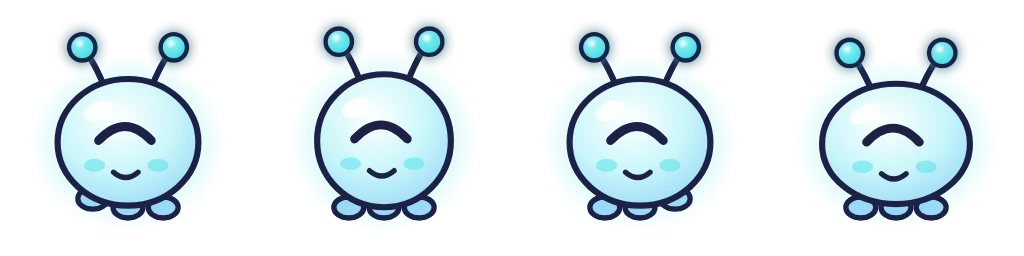
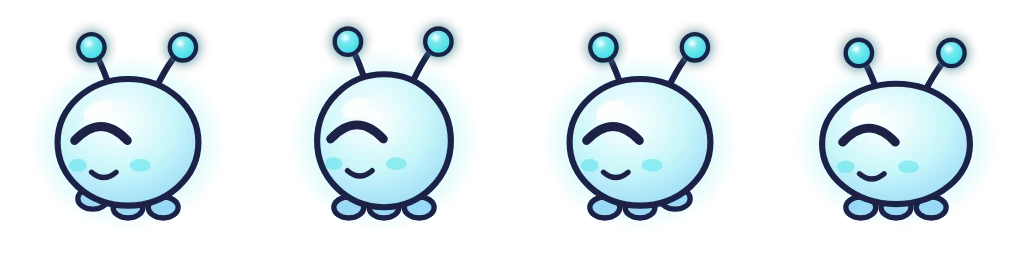
Nebula: critters look where they walk (3/4-turned face on the walk + happy sheets, mirrored by the engine); visual-review: facing check
Claude-Session: https://claude.ai/code/session_011bftBeXudnSzAMBxDFXhpR

diff --git a/index.html b/index.html
@@ -11,12 +11,12 @@
   <meta name="apple-mobile-web-app-status-bar-style" content="black-translucent" />
   <meta name="apple-mobile-web-app-title" content="Nebula" />
   <title>Nebula Nursery</title>
-  <link rel="manifest" href="manifest.webmanifest?v=v47" />
-  <link rel="icon" type="image/png" href="assets/favicon.png?v=v47" />
-  <link rel="apple-touch-icon" href="assets/apple-touch-icon.png?v=v47" />
+  <link rel="manifest" href="manifest.webmanifest?v=v48" />
+  <link rel="icon" type="image/png" href="assets/favicon.png?v=v48" />
+  <link rel="apple-touch-icon" href="assets/apple-touch-icon.png?v=v48" />
   <link rel="preload" href="vendor/fonts/fredoka-latin.woff2" as="font" type="font/woff2" crossorigin />
-  <link rel="stylesheet" href="engine.css?v=v47" />
-  <link rel="stylesheet" href="style.css?v=v47" />
+  <link rel="stylesheet" href="engine.css?v=v48" />
+  <link rel="stylesheet" href="style.css?v=v48" />
 </head>
 <body>
   <!-- Home: full-screen splash + bottom sheet -->
@@ -103,8 +103,8 @@
   <!-- Night veil ("rest" transition), fullscreen -->
   <div id="night-veil"></div>
 
-  <script src="vendor/phaser.min.js?v=v47"></script>
-  <script src="game.config.js?v=v47"></script>
-  <script src="engine.js?v=v47"></script>
+  <script src="vendor/phaser.min.js?v=v48"></script>
+  <script src="game.config.js?v=v48"></script>
+  <script src="engine.js?v=v48"></script>
 </body>
 </html>

diff --git a/game.config.js b/game.config.js
@@ -32,7 +32,7 @@ window.GAME = {
     tagline: "Look after the little glowing critters!",
     saveKey: "nebula-nursery",
     audience: { minAge: 6, notes: "all-ages, gentle, cute, no violence" },
-    assetVersion: "v47",
+    assetVersion: "v48",
     theme: { home: "#120c34", play: "#0b1029", closeup: "#1b1150" },
     showCoins: true,
     coinIcon: "shard",                // the currency: star shards

diff --git a/.claude/skills/visual-review/SKILL.md b/.claude/skills/visual-review/SKILL.md
@@ -39,6 +39,10 @@ Checklist — answer each explicitly (write down the defects you find):
   its shape (e.g. a tongue outside the mouth) — clip inner details to their container.
 - **Silhouette readable at the in-game size** (a phone shows sprites at ~40–90 px).
 - **Walk cycles**: feet stay on the same line, no sliding, arms/legs alternate.
+- **Facing**: a side-view walker / mount (flipped left↔right by the engine) must LOOK where it
+  goes — draw its walk strip with the face turned ~3/4 towards the left (eye, mouth, cheeks
+  shifted; e.g. `critter({look, turn})` in nebula.cjs), never a straight front face. Check a
+  ridden one going left AND right (rider and mount face the same way).
 - **Variants** differ clearly (colour, hair…) but share the same anatomy.
 - **Sharpness (no blur)**: crop at the DPR-3 (iPhone) resolution — art must be rendered at
   ≥ 2× its displayed size (`svg-kit` `hidpi()` rules + `res` in `GAME.assets`, see ENGINE.md
